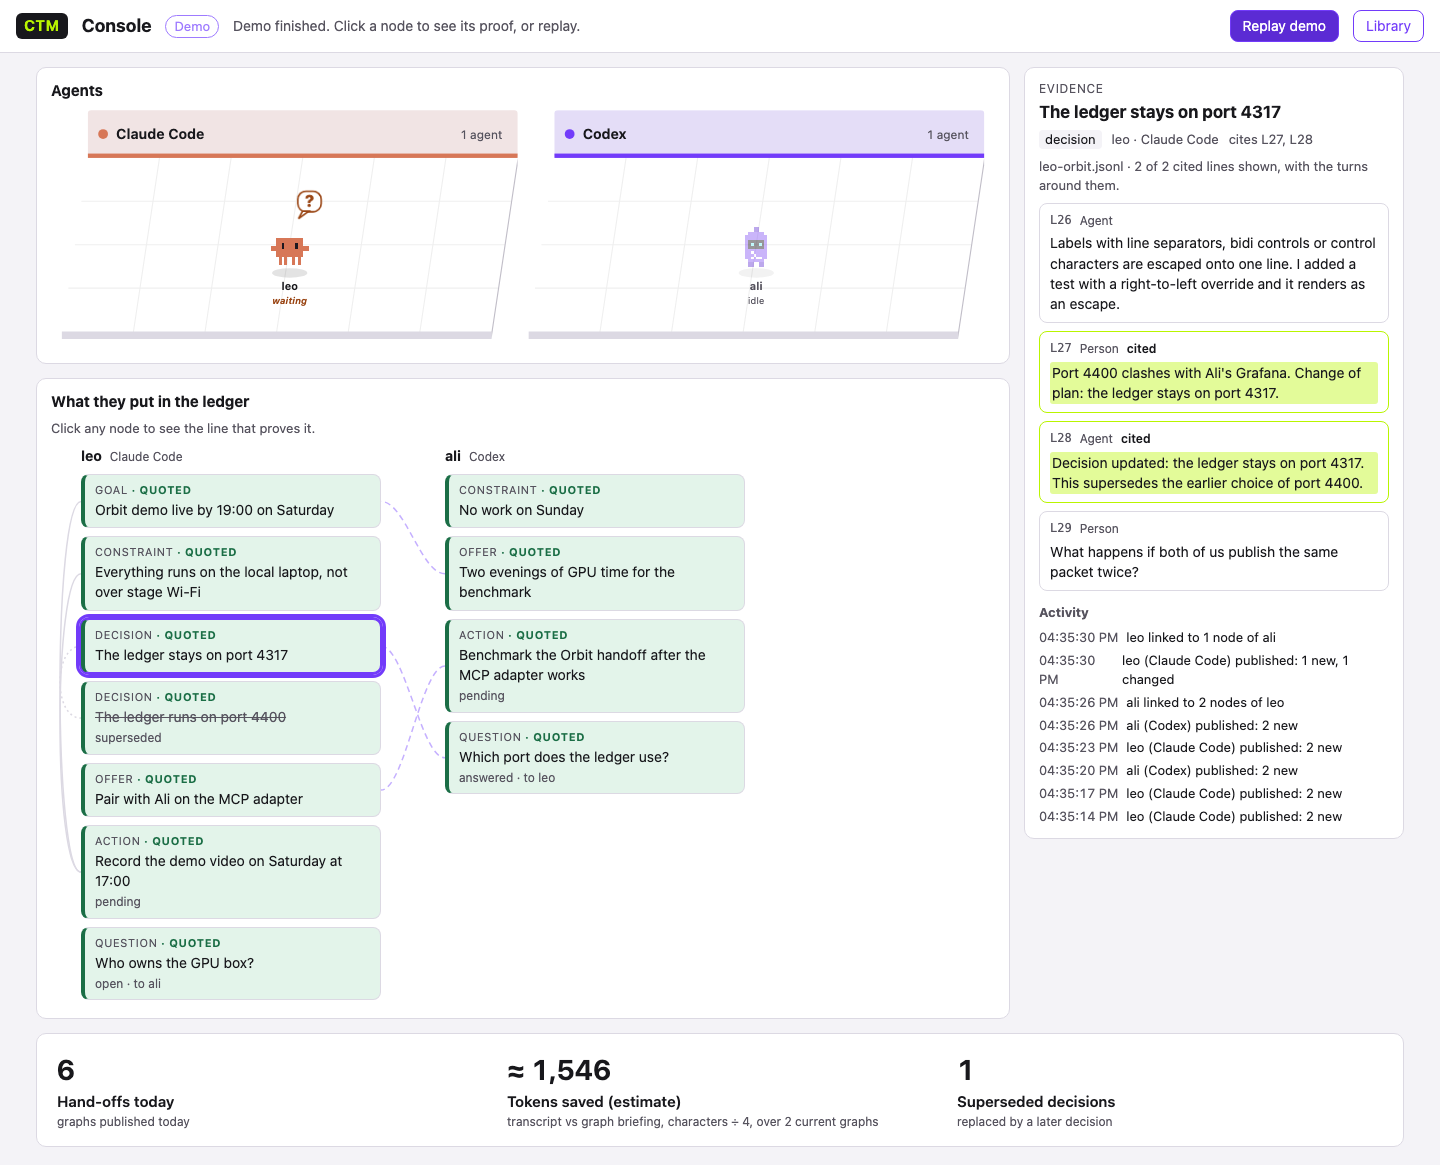
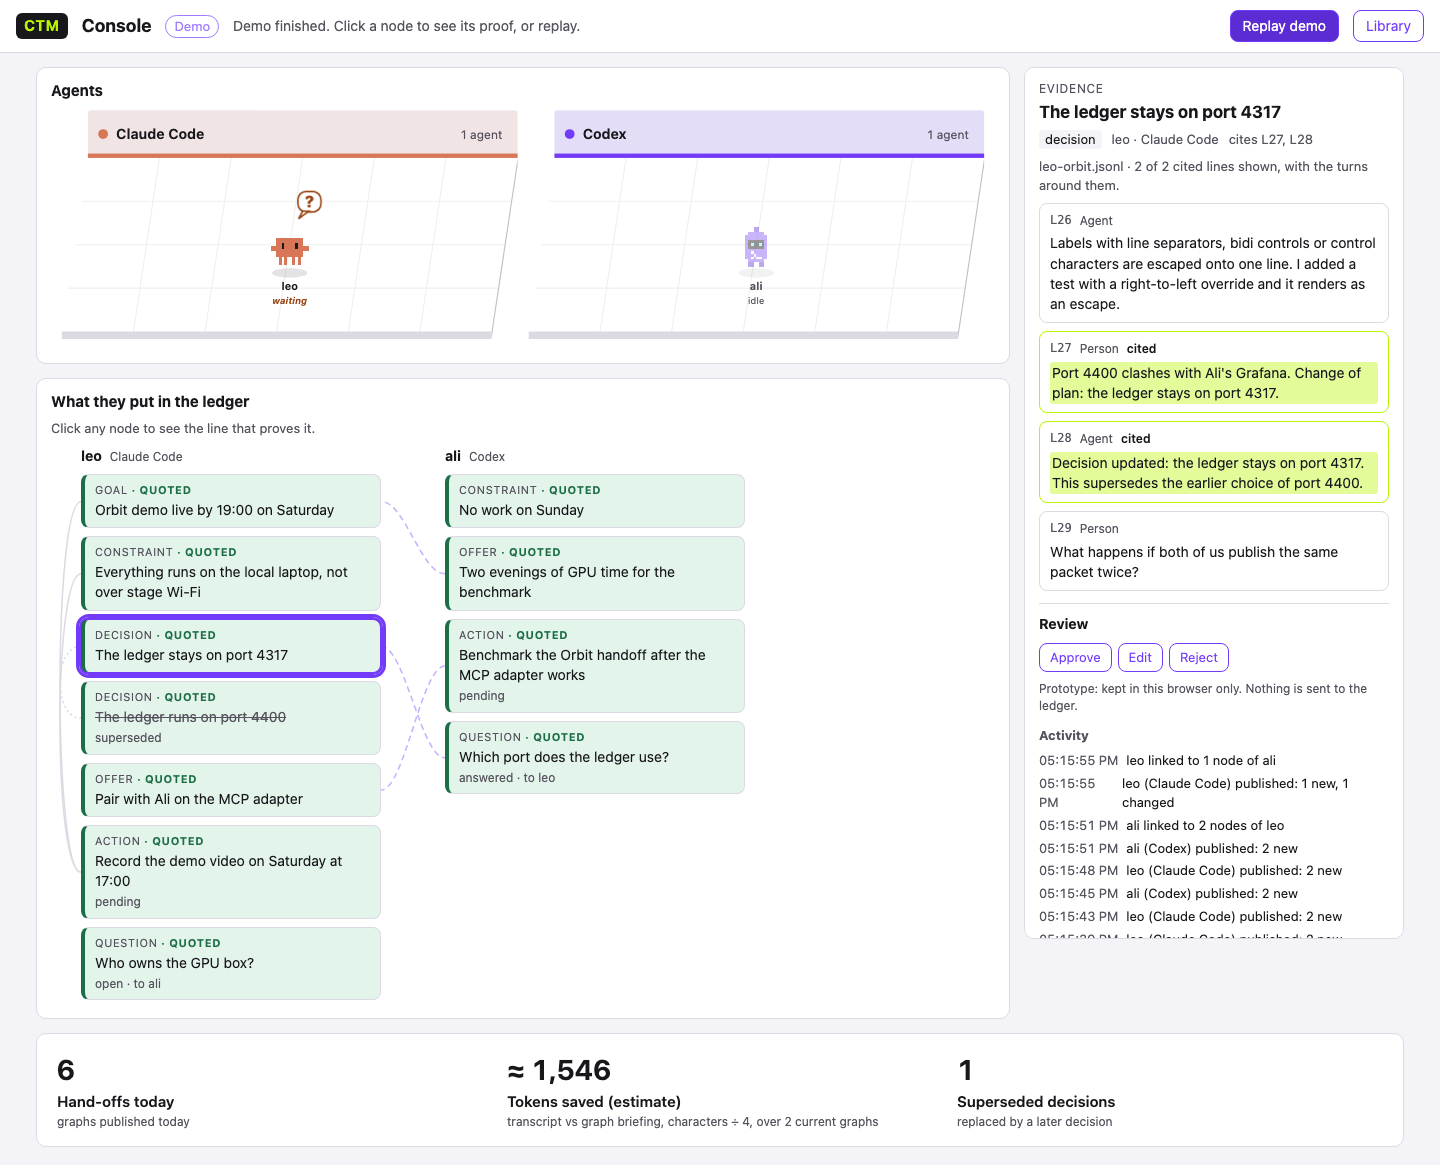
P3: fix the review findings and record the results
A republish under a new graph ID now moves the open review to the new snapshot, so a
decision is never saved to a graph that is no longer shown. Picking the same node again
keeps an open edit. Live mode no longer loads the review module.

Changed region(s): [[0.7188, 0.5253, 0.9375, 0.8034]]

diff --git a/docs/evals.md b/docs/evals.md
@@ -1614,3 +1614,17 @@ Terms: a **review** is one person's decision on one node of one graph snapshot, 
 | Survives a replay and a reload | Reviews stay after **Replay demo** and after a page reload, because the recording's graph IDs do not change. |
 | Keyboard | Every review control is a button reachable by Tab. After a decision, focus stays in the Review block. |
 | Tests | Node tests for the store (save, undo, edit rules, bad stored data, a throwing storage). A Playwright test approves, edits and rejects three demo nodes, reloads, sees all three, undoes one, checks that live mode has no Review block, and saves a screenshot. |
+
+### P3 results (2026-11-18, macOS)
+
+- **Demo only: pass.** In demo mode the Review block appears once a node is open. Live mode has no Review block and never fetches `review.mjs`, because the demo loads it with a dynamic import.
+- **Approve and reject: pass.** The decision shows in the node's meta, its `aria-label` and its class. A rejected label is struck through. Undo clears the decision.
+- **Edit: pass.** An empty save is refused with a message. `Pair with Ali <b>tonight</b>` is kept and shown as text, with no `b` element created. The evidence heading keeps the original label.
+- **Browser only: pass.** Every request is a GET. Bad stored data, a throwing storage and `null` storage are covered by the node tests, and the e2e test covers invalid JSON in `localStorage`.
+- **Survives a replay and a reload: pass.** **Keyboard: pass.** Approve, Reject and Save move focus to Undo; Undo and Cancel move it to Edit.
+- Screenshot: [docs/console/07-review.png](console/07-review.png).
+- **Independent review** (Claude Sonnet as `ecc:code-reviewer`, read-only). One medium and two low findings, all fixed with tests:
+  - (medium) After a republish under a new graph ID with the node unchanged, the panel kept the old graph ID. It still said "approved", and a new decision was saved to the old snapshot. The panel now follows every republish. A Playwright test approves Leo's goal mid-demo and sees the review start fresh after his next publish; the test fails on the old code.
+  - (low) An open edit form lost its text when the same node was picked again. Showing the same snapshot again is now a no-op, and there is a test for it.
+  - (low) Live mode loaded `review.mjs` although none of it ran. It is now imported only in demo mode, and the live test checks that no request for it is made.
+- **Suites (macOS, Node 26):** node 253/254 (the one failure is the same `tests/mcp.test.mjs` test that fails on `ruslan/console-v0`); Playwright 26/26; `npm run -s test:graph` passes.

diff --git a/docs/delivery-board.md b/docs/delivery-board.md
@@ -8,7 +8,7 @@ Claim a card before working on it (AGENTS.md section 2). States: Backlog, Ready,
 | P0 Product strategy | Claude Code | `product/strategy`, `product/v1` | Research, product plan, UzCombinator validation | In progress |
 | P1 Architecture and foundation (wave 1) | Claude Code workflows | `product/v1` | `docs/architecture.md`, projects, one row per message, stable IDs, migrations, delete and retention, API token | In progress |
 | P2 MCP server and graph v2 (wave 2) | Unassigned | — | Stdio MCP tools, project-scoped graph with message-ID citations and approvals | Backlog (after P1) |
-| P3 Reviewer UI (wave 3) | Claude Code (for Ali) | `ali/p3-reviewer` (stacked on U4, #51) | Node and evidence side by side; approve, edit or reject. Prototype only: in the console's demo mode, decisions kept in this browser, until Ruslan decides what each action means and P1c lands | In progress |
+| P3 Reviewer UI (wave 3) | Claude Code (for Ali) | `ali/p3-reviewer` (stacked on U4, #51) | Node and evidence side by side; approve, edit or reject. Prototype only: in the console's demo mode, decisions kept in this browser, until Ruslan decides what each action means and P1c lands | In review |
 | P4 Redaction and signed export (wave 4) | Unassigned | — | Secret scanner, redaction diff, Ed25519 signing, `ledger verify` | Backlog (after P2) |
 | P5 Packaging and launch (wave 5) | Unassigned | — | npx install, cross-OS CI, license key, docs | Backlog |
 | I1 Large-file streaming import | Unassigned | — | Real data: 16% of Claude Code sessions exceed the 8 MiB HTTP limit; import from a file path with streaming | Ready (after P1) |
